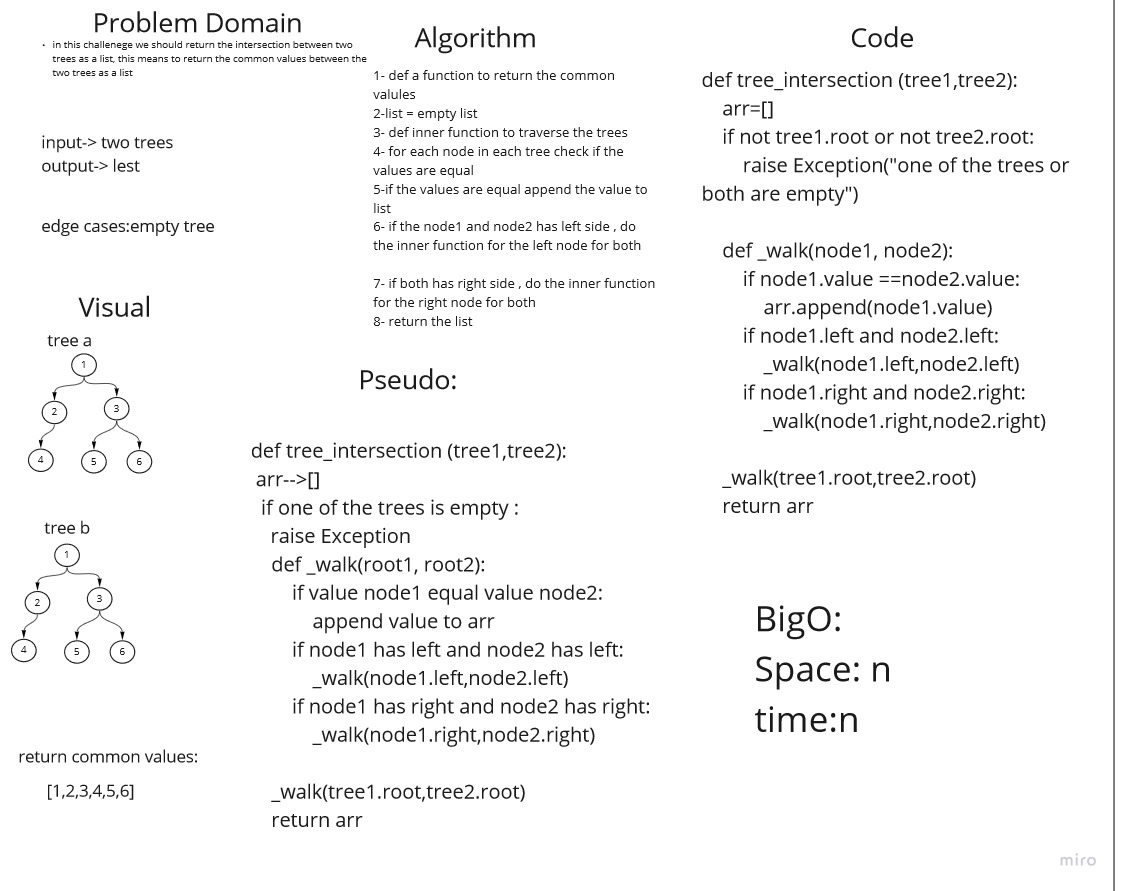
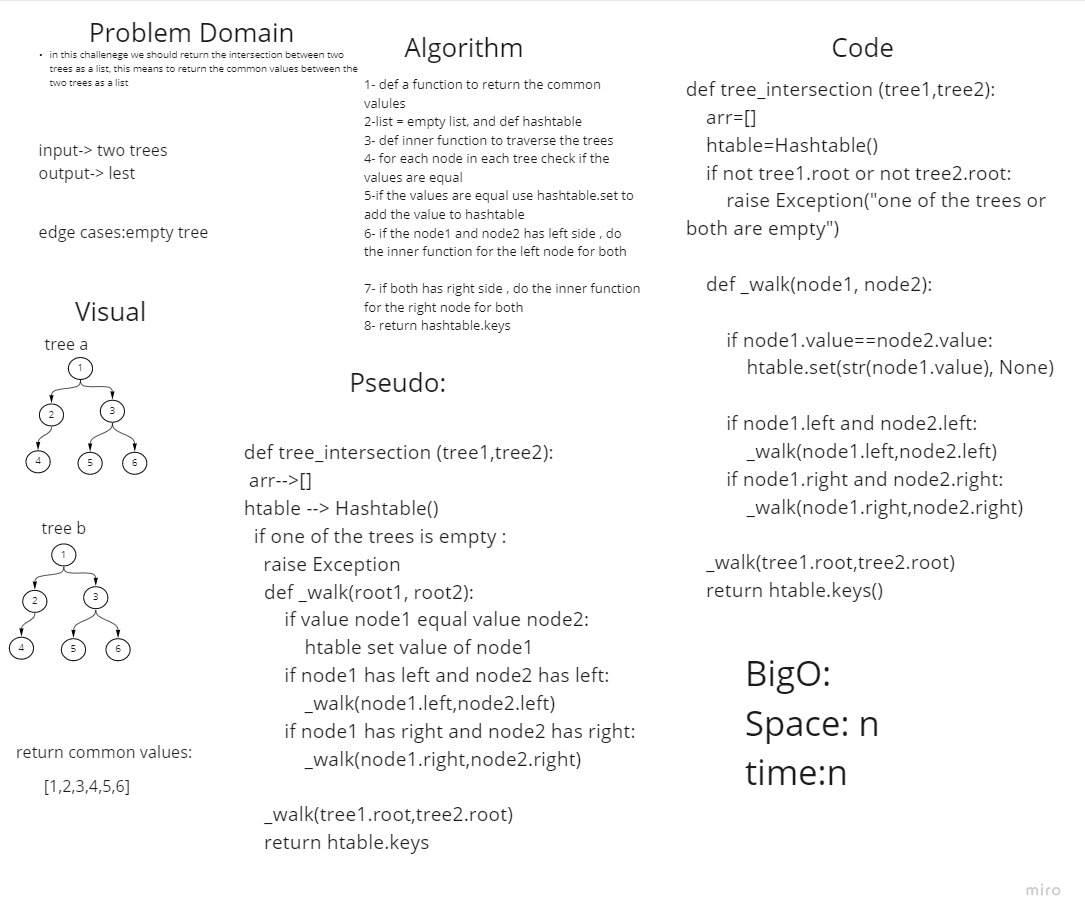
fixing the data structure using hastable

diff --git a/tree_intersection/tree_intersection.py b/tree_intersection/tree_intersection.py
@@ -1,24 +1,27 @@
 
-
+from data_structures_and_algorithms.hashtable import Hashtable
 from data_structures_and_algorithms.trees import TNode,BinaryTree
 
 
 
 def tree_intersection (tree1,tree2):
     arr=[]
+    htable=Hashtable()
     if not tree1.root or not tree2.root:
         raise Exception("one of the trees or both are empty")
     
     def _walk(node1, node2):
-        if node1.value ==node2.value:
-            arr.append(node1.value)
+        
+        if node1.value==node2.value:
+            htable.set(str(node1.value), None)
+        
         if node1.left and node2.left:
             _walk(node1.left,node2.left)
         if node1.right and node2.right:
             _walk(node1.right,node2.right)
     
     _walk(tree1.root,tree2.root)
-    return arr
+    return htable.keys()
         
 
 

diff --git a/tree_intersection/test_tree_intersection.py b/tree_intersection/test_tree_intersection.py
@@ -5,12 +5,12 @@ from tree_intersection import tree_intersection
 
 def test_tree_intersection(tree1,tree2):
   actual = tree_intersection(tree1,tree2)
-  expected = [1, 2, 50, 7, 3, 5, 26]
+  expected = ['50', '26', '1', '2', '3', '5', '7']
   assert actual == expected
 
 def test_tree_intersection2(tree1,tree3):
   actual = tree_intersection(tree1,tree3)
-  expected = [1, 2, 50, 7, 3]
+  expected = ['50', '1', '2', '3', '7']
   assert actual == expected
 
 def test_tree_intersection_empty(tree1,tree4):

diff --git a/tree_intersection/tree_intersection.md b/tree_intersection/tree_intersection.md
@@ -9,7 +9,7 @@ in this challenege we should return the intersection between two trees as a list
 
 
 ## Approach & Efficiency
-in this challenge i used a recursive function to traverce through the tree , and for each node check if the nodes values are equal and then append the value to a list
+in this challenge i used a recursive function to traverce through the tree , and for each node check if the nodes values are equal if the nodes values are equal i used hashtable and set the value to the table , finally i will return the keys of this table
 ## BigO: 
 time: n
 space:n
@@ -18,19 +18,22 @@ space:n
 ```
 def tree_intersection (tree1,tree2):
     arr=[]
+    htable=Hashtable()
     if not tree1.root or not tree2.root:
         raise Exception("one of the trees or both are empty")
     
     def _walk(node1, node2):
-        if node1.value ==node2.value:
-            arr.append(node1.value)
+        
+        if node1.value==node2.value:
+            htable.set(str(node1.value), None)
+        
         if node1.left and node2.left:
             _walk(node1.left,node2.left)
         if node1.right and node2.right:
             _walk(node1.right,node2.right)
     
     _walk(tree1.root,tree2.root)
-    return arr
+    return htable.keys()
 ```
 
 ## pull request
